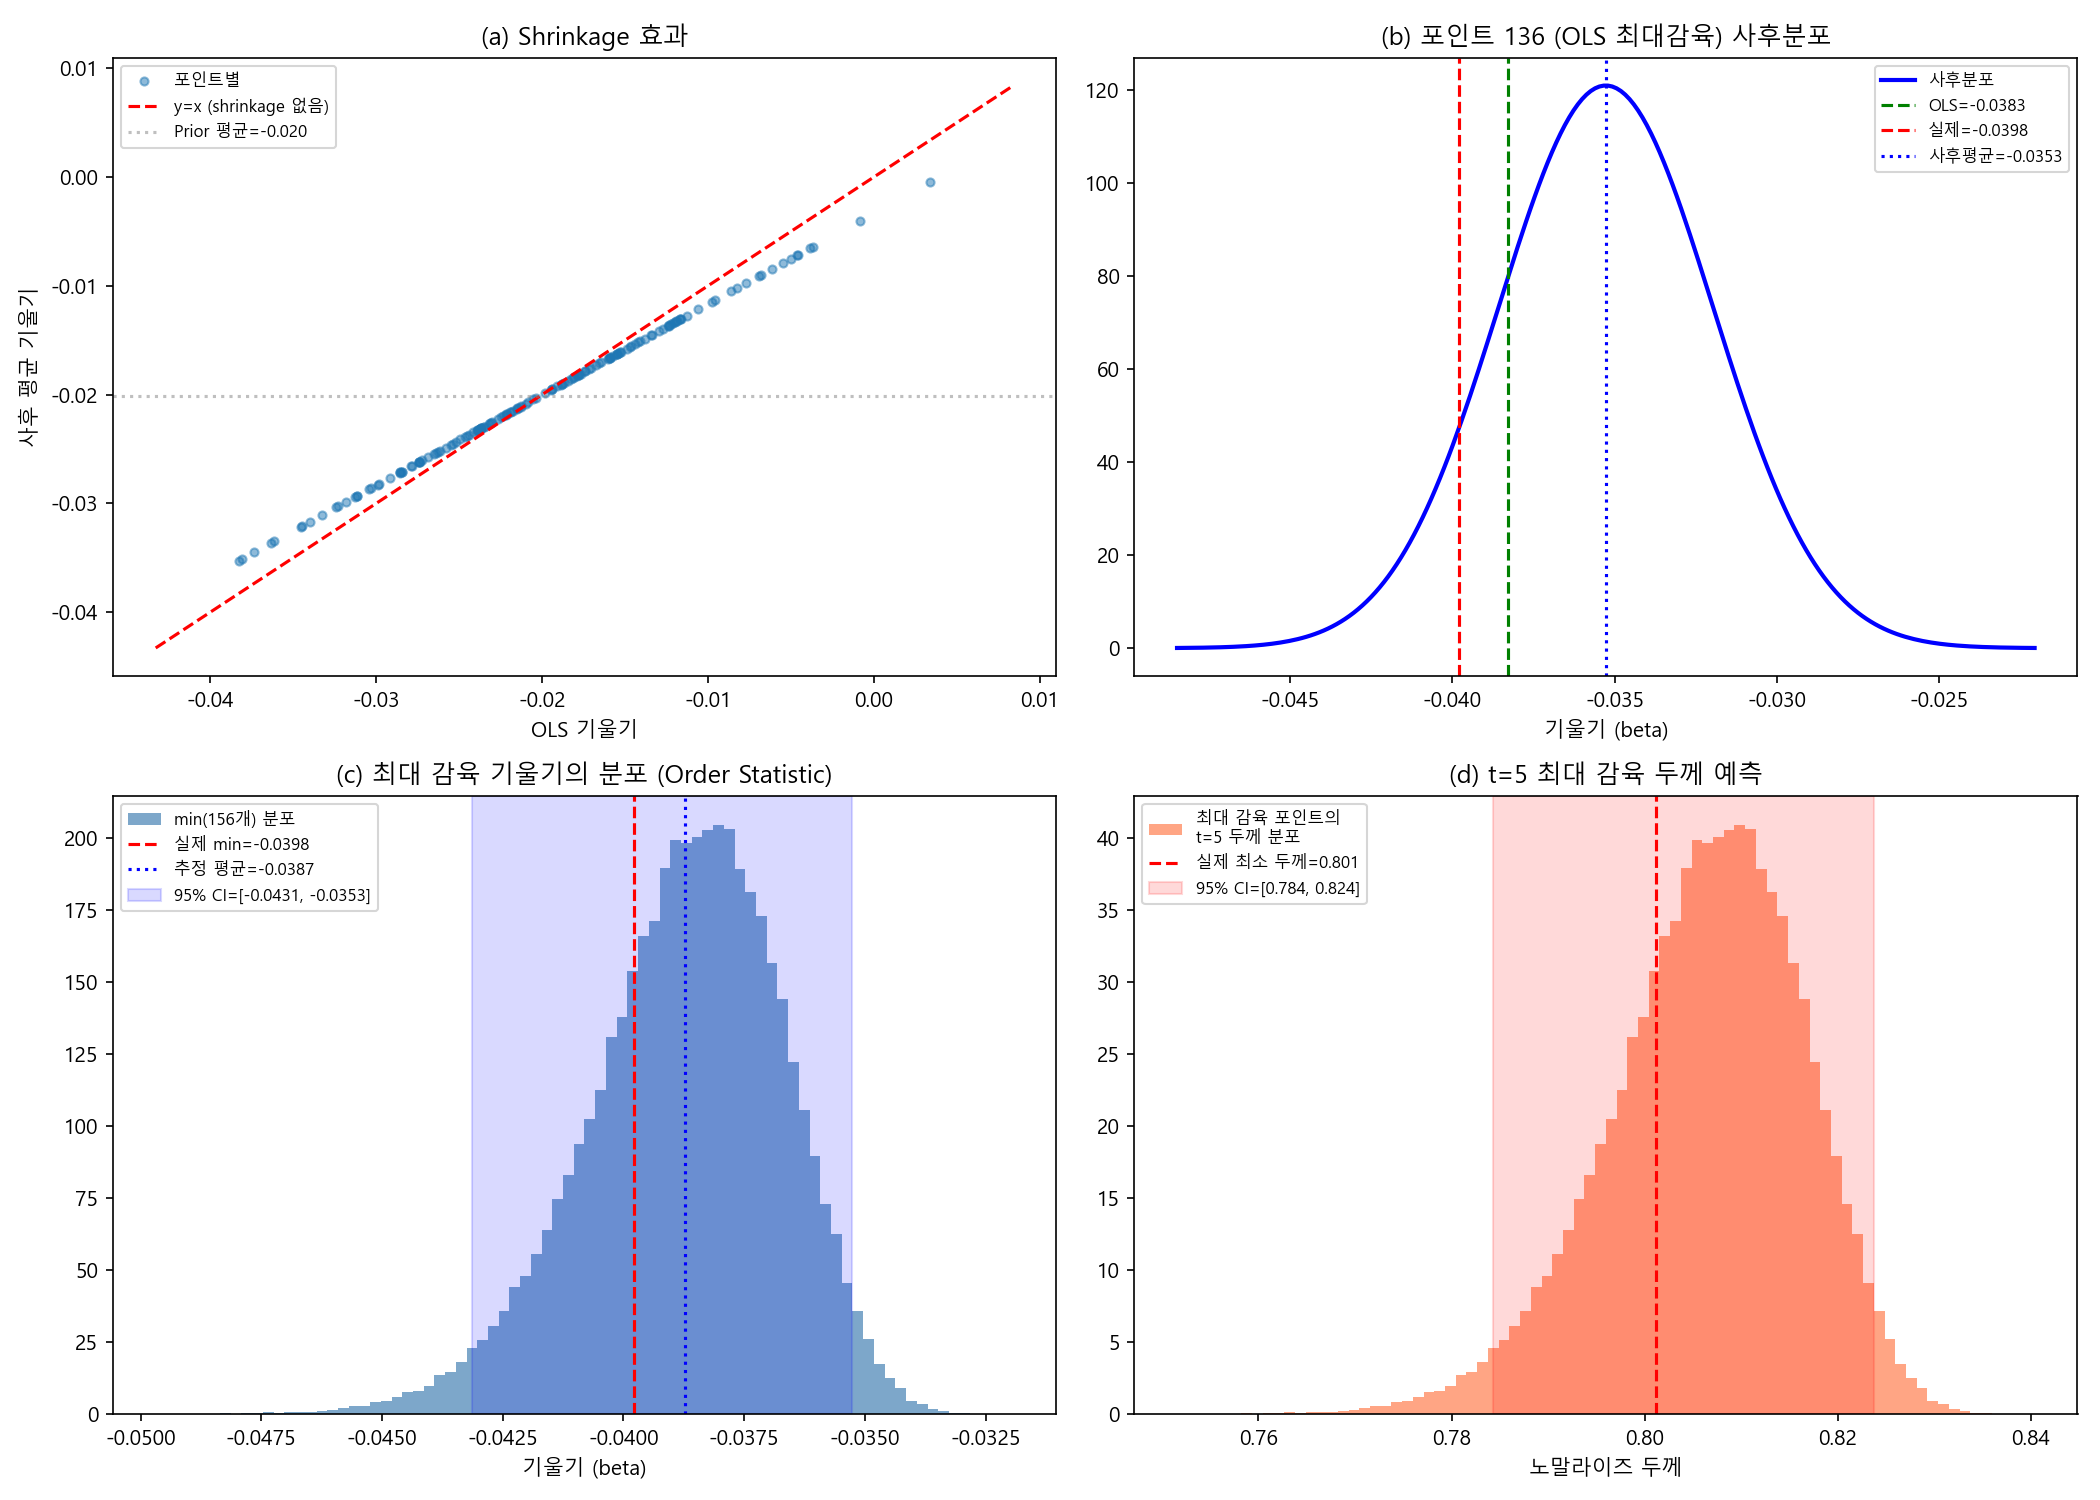
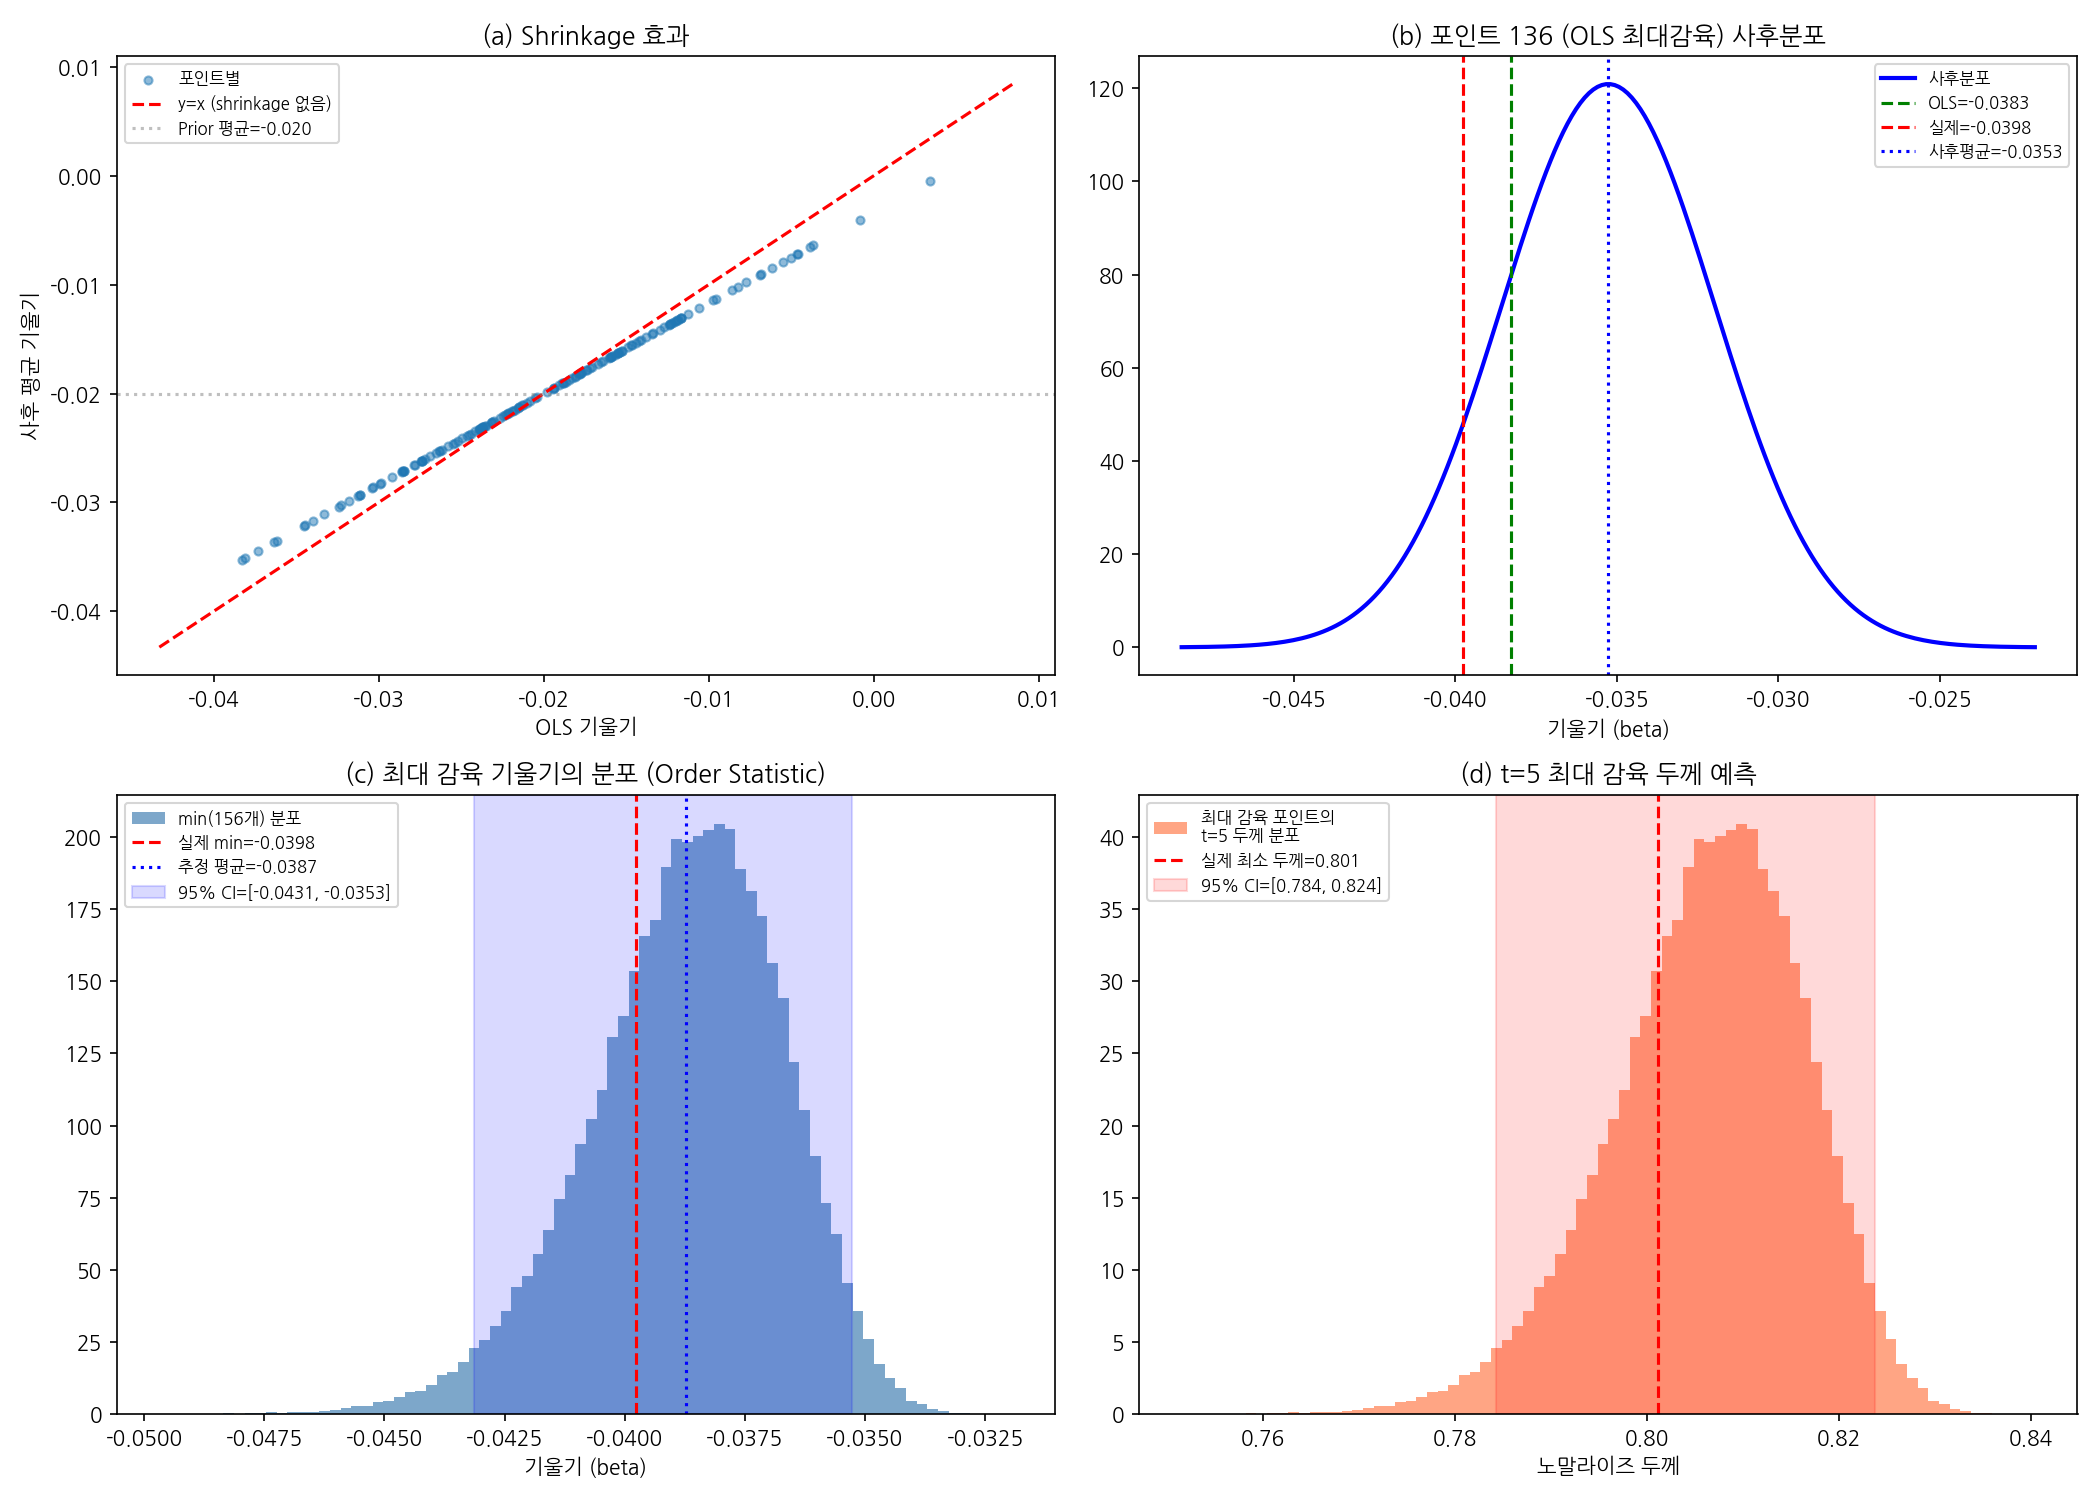
Update scripts and results

diff --git a/test2.py b/test2.py
@@ -1,6 +1,15 @@
 import warnings
 warnings.filterwarnings("ignore", category=FutureWarning)
 
+# ============================================================
+# 설정: "cpu" 또는 "gpu"
+# ============================================================
+DEVICE = "cuda"  # "cpu" or "cuda"
+
+import os
+os.environ["JAX_PLATFORMS"] = DEVICE
+
+import jax
 import pymc as pm
 import numpy as np
 import pandas as pd
@@ -8,7 +17,14 @@ import arviz as az
 import matplotlib.pyplot as plt
 from scipy import stats
 
-plt.rcParams['font.family'] = 'Malgun Gothic'
+N_CHAINS = 4 if DEVICE == "cpu" else 1
+print(f"[설정] device={DEVICE}, chains={N_CHAINS}, jax devices={jax.devices()}")
+
+import platform
+if platform.system() == 'Windows':
+    plt.rcParams['font.family'] = 'Malgun Gothic'
+else:
+    plt.rcParams['font.family'] = 'NanumGothic'
 plt.rcParams['axes.unicode_minus'] = False
 
 # ============================================================
@@ -73,7 +89,7 @@ with pm.Model() as model:
     y_obs = pm.Normal("y_obs", mu=mu_hat, sigma=eps, observed=df.thickness.values)
 
     # MCMC
-    trace = pm.sample(1000, tune=1000, target_accept=0.9, nuts_sampler="numpyro")
+    trace = pm.sample(1000, tune=1000, target_accept=0.9, nuts_sampler="numpyro", chains=N_CHAINS)
 
 # ============================================================
 # 3. 사후분포에서 Order Statistic (min) 추출

diff --git a/test1.py b/test1.py
@@ -2,7 +2,11 @@ import numpy as np
 import matplotlib.pyplot as plt
 from scipy import stats
 
-plt.rcParams['font.family'] = 'Malgun Gothic'
+import platform
+if platform.system() == 'Windows':
+    plt.rcParams['font.family'] = 'Malgun Gothic'
+else:
+    plt.rcParams['font.family'] = 'NanumGothic'
 plt.rcParams['axes.unicode_minus'] = False
 
 # ============================================================

diff --git a/CLAUDE.md b/CLAUDE.md
@@ -4,28 +4,39 @@ This file provides guidance to Claude Code (claude.ai/code) when working with co
 
 ## Project Overview
 
-Small collection of Python scripts for **Bayesian inference visualizations**, specifically demonstrating coin-flip (binomial) Bayesian updating with discrete theta values.
+Python scripts for **Bayesian inference** demonstrations: coin-flip (binomial) Bayesian updating and corrosion rate estimation with hierarchical Bayesian models.
 
 ## Running Scripts
 
 ```bash
-python ba_2.py
+python ba_1.py        # BernGrid demo → saves plot
+python ba_2.py        # Coin-flip comparison → saves pmf_vs_likelihood.png
+python test1.py       # Empirical Bayes corrosion → saves empirical_bayes_result.png
+python test2.py       # MCMC hierarchical Bayes corrosion → saves mcmc_bayes_result.png
 ```
-
-Scripts produce matplotlib plots (e.g., `pmf_vs_likelihood.png`).
 
 ## Dependencies
 
-- numpy
-- matplotlib
-- scipy (scipy.stats.binom)
+- numpy, matplotlib, scipy
+- pandas (test1/test2)
+- pymc, arviz (test2 only — uses `numpyro` NUTS sampler)
 
 ## Architecture
 
-- `ba_1.py` — Core `BernGrid` function: Bernoulli likelihood grid approximation with HDI (`hdi_of_grid`) and visualization (prior/likelihood/posterior as vertical bar plots). Accepts raw binary Data arrays. Runs a demo with triangular prior and `[0,0,0,1]` data.
-- `ba_2.py` — Bayesian coin-flip analysis: computes prior (triangular), binomial likelihood (`scipy.stats.binom`), and posterior over 1001 discrete θ values. Compares two experiments (N=4,z=1 vs N=40,z=10) in a 3×2 subplot grid with MAP estimation.
+**Coin-flip Bayesian updating (ba_1.py, ba_2.py):**
+- `ba_1.py` — `BernGrid` function: grid approximation of Bernoulli likelihood with HDI (`hdi_of_grid`) and bar-plot visualization. Accepts raw binary data arrays.
+- `ba_2.py` — Compares two experiments (N=4,z=1 vs N=40,z=10) in a 3×2 subplot; uses `scipy.stats.binom` for binomial likelihood.
+
+**Corrosion rate estimation (test1.py, test2.py):**
+- Domain: 12×13 grid of measurement points, each with thickness readings at t=1,3,5. OLS linear regression per point gives corrosion rate (β). Goal: estimate the worst-case (minimum β) across all points.
+- `test1.py` — **Empirical Bayes** (closed-form): normal-normal conjugate update; uses Monte Carlo order statistics to find the distribution of `min(β)`.
+- `test2.py` — **Hierarchical MCMC** via PyMC: partial pooling with hyperpriors on `mu_beta`, `sigma_beta`; extracts order statistic from MCMC posterior samples directly.
+
+Both corrosion scripts produce a 2×2 subplot: (a) shrinkage scatter, (b) worst-point posterior, (c) order statistic distribution, (d) t=5 thickness prediction with 95% CI.
 
 ## Notes
 
 - Comments are in Korean.
-- θ is discretized as `np.linspace(0, 1, 1001)` across all scripts.
+- θ is discretized as `np.linspace(0, 1, 1001)` in ba_1/ba_2.
+- Font set to `Malgun Gothic` in test1/test2 (Korean labels); may need adjustment on non-Windows systems.
+- `np.random.seed(42)` used in test1/test2 for reproducibility.
